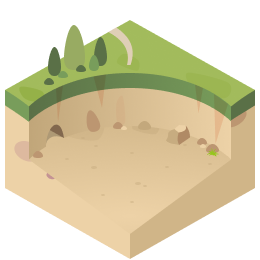
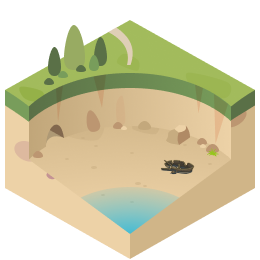
finetuning details

Changed region(s): [[0.3077, 0.7077, 0.6769, 0.9231], [0.6154, 0.6154, 0.7692, 0.6769]]

diff --git a/lib/layout/components/island_puzzle_tile.dart b/lib/layout/components/island_puzzle_tile.dart
@@ -46,9 +46,9 @@ class _IslandPuzzleTileState extends State<IslandPuzzleTile> {
   @override
   Widget build(BuildContext context) {
     return LayoutBuilder(builder: (context, constraints) {
-      var position = 0.0;
+      var position = 0/16;
       if (_isTapped) {
-        position += 0.1;
+        position += 0.05;
       } else if (_isHovered) {
         position += 0.01;
       }
@@ -78,6 +78,8 @@ class _IslandPuzzleTileState extends State<IslandPuzzleTile> {
                   child: IgnorePointer(
                     child: Stack(
                       children: [
+                        Image.asset(
+                            'assets/images/block_empty.png'),
                         Align(
                           alignment: Alignment.topCenter,
                           child: AnimatedOpacity(
@@ -208,7 +210,7 @@ class _Water extends StatelessWidget {
   final double width;
   final double relativeDepth;
 
-  static const _waterLevel = 11 / 16;
+  static const _waterLevel = 12 / 16;
 
   @override
   Widget build(BuildContext context) {
@@ -219,7 +221,9 @@ class _Water extends StatelessWidget {
     final relativeUnderWater =
         math.max<double>(0, relativeHeightOfIsland - _waterLevel);
     final waterColor =
-        context.select((ThemeBloc bloc) => bloc.state.theme).backgroundColor;
+        context.select((ThemeBloc bloc) => bloc.state.theme).backgroundColor
+    ;
+
     final double waterOpacity;
     if (relativeUnderWater < 0.0) {
       waterOpacity = 0.0;
@@ -240,9 +244,9 @@ class _Water extends StatelessWidget {
           children: [
             if (relativeUnderWater > 0.0)
               Positioned(
-                left: -0.3,
-                top: width * (relativeDepth + 0.07),
-                right: -0.3,
+                left: -width * 0.3,
+                top: width * relativeDepth * 0.8,
+                right: -width * 0.3,
                 child: _Top(color: waterColor.withOpacity(waterOpacity)),
               ),
             Positioned(

diff --git a/lib/puzzle/view/puzzle_page.dart b/lib/puzzle/view/puzzle_page.dart
@@ -49,22 +49,34 @@ class PuzzleView extends StatelessWidget {
     final shufflePuzzle = false;
 
     return Scaffold(
-      backgroundColor: theme.backgroundColor,
-      body: BlocProvider(
-        create: (context) => TimerBloc(
-          ticker: const Ticker(),
+      body: Container(
+        decoration: BoxDecoration(
+          gradient: LinearGradient(
+            begin: Alignment.topCenter,
+            end: Alignment.bottomCenter,
+            stops: const [0.1, 0.5],
+            colors: [
+              theme.backgroundColorSecondary,
+              theme.backgroundColor,
+            ],
+          ),
         ),
-        child: SafeArea(
-          child: BlocProvider(
-            create: (context) => PuzzleBloc(
-              4,
-            )..add(
-                PuzzleInitialized(
-                  shufflePuzzle: shufflePuzzle,
+        child: BlocProvider(
+          create: (context) => TimerBloc(
+            ticker: const Ticker(),
+          ),
+          child: SafeArea(
+            child: BlocProvider(
+              create: (context) => PuzzleBloc(
+                4,
+              )..add(
+                  PuzzleInitialized(
+                    shufflePuzzle: shufflePuzzle,
+                  ),
                 ),
+              child: const _Puzzle(
+                key: Key('puzzle_view_puzzle'),
               ),
-            child: const _Puzzle(
-              key: Key('puzzle_view_puzzle'),
             ),
           ),
         ),
@@ -198,7 +210,6 @@ enum PageOrientation {
 
   /// Wider than tall.
   landscape,
-
   landscapeLow,
 }
 
@@ -233,7 +244,7 @@ class _Page extends StatelessWidget {
               child: theme.layoutDelegate.endSectionBuilder(state),
             ),
           ),
-        if(orientation == PageOrientation.landscapeLow)
+        if (orientation == PageOrientation.landscapeLow)
           Align(
             alignment: Alignment.bottomRight,
             child: theme.layoutDelegate.endSectionBuilder(state),

diff --git a/lib/colors/colors.dart b/lib/colors/colors.dart
@@ -53,8 +53,10 @@ abstract class PuzzleColors {
   /// White
   static const Color white = Color(0xFFFFFFFF);
 
-  static const Color water_light = Color(0xFFA4D9F2);
+  static const Color water_light = Color(0xFF21CBE4);
+  static const Color water_light_secondary = Color(0xFFA1EBFF);
   static const Color water_dark = Color(0xFF3C4F77);
+  static const Color water_dark_secondary = Color(0xFF3C4F77);
   static const Color sun = Color(0xFFFFD600);
   static const Color moon = Color(0xFFF0F5E3);
 }

diff --git a/lib/theme/themes/simple_theme.dart b/lib/theme/themes/simple_theme.dart
@@ -24,6 +24,8 @@ class IslandTheme extends PuzzleTheme {
   @override
   Color get backgroundColor => PuzzleColors.water_light;
 
+  Color get backgroundColorSecondary => PuzzleColors.water_light_secondary;
+
   @override
   Color get defaultColor => Colors.indigo;
 
@@ -55,4 +57,7 @@ class IslandDarkTheme extends IslandTheme {
 
   @override
   Color get backgroundColor => PuzzleColors.water_dark;
+
+  @override
+  Color get backgroundColorSecondary => PuzzleColors.water_dark_secondary;
 }

diff --git a/lib/theme/bloc/theme_bloc.dart b/lib/theme/bloc/theme_bloc.dart
@@ -12,7 +12,7 @@ class ThemeBloc extends Bloc<ThemeEvent, ThemeState> {
     on<ThemeChanged>(_onThemeChanged);
   }
 
-  final List<PuzzleTheme> themes;
+  final List<IslandTheme> themes;
 
   void _onThemeChanged(ThemeChanged event, Emitter<ThemeState> emit) {
     emit(ThemeState(theme: themes[event.themeIndex]));

diff --git a/lib/theme/bloc/theme_state.dart b/lib/theme/bloc/theme_state.dart
@@ -5,7 +5,7 @@ part of 'theme_bloc.dart';
 class ThemeState extends Equatable {
   const ThemeState({required this.theme});
 
-  final PuzzleTheme theme;
+  final IslandTheme theme;
 
   @override
   List<Object> get props => [theme];
